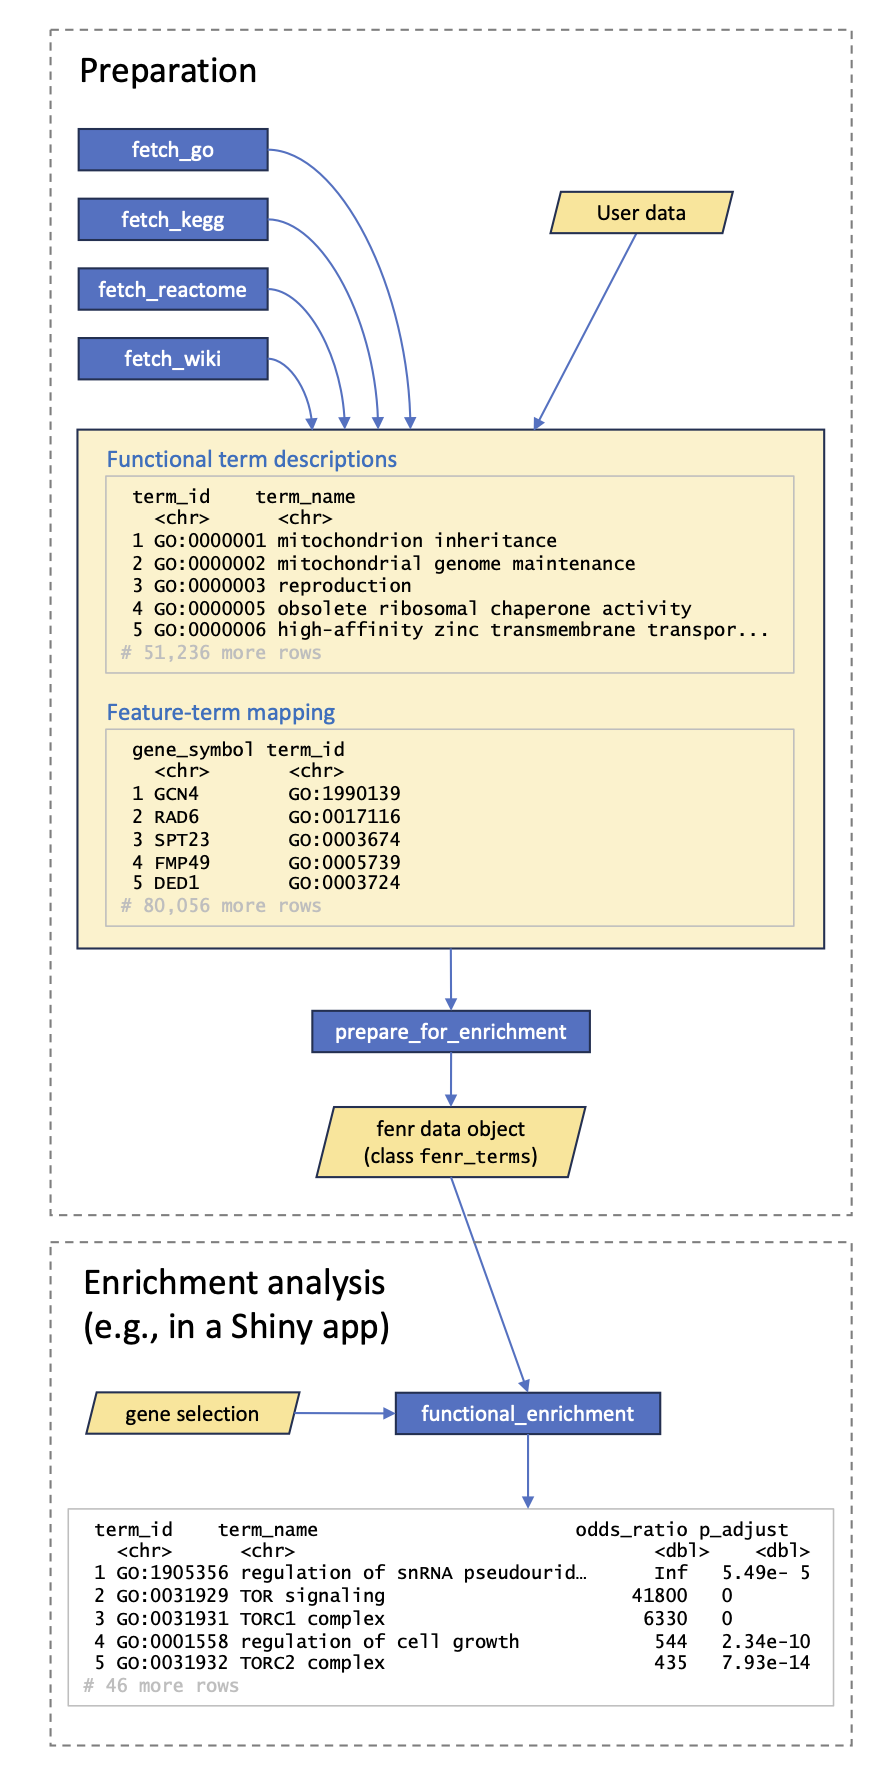
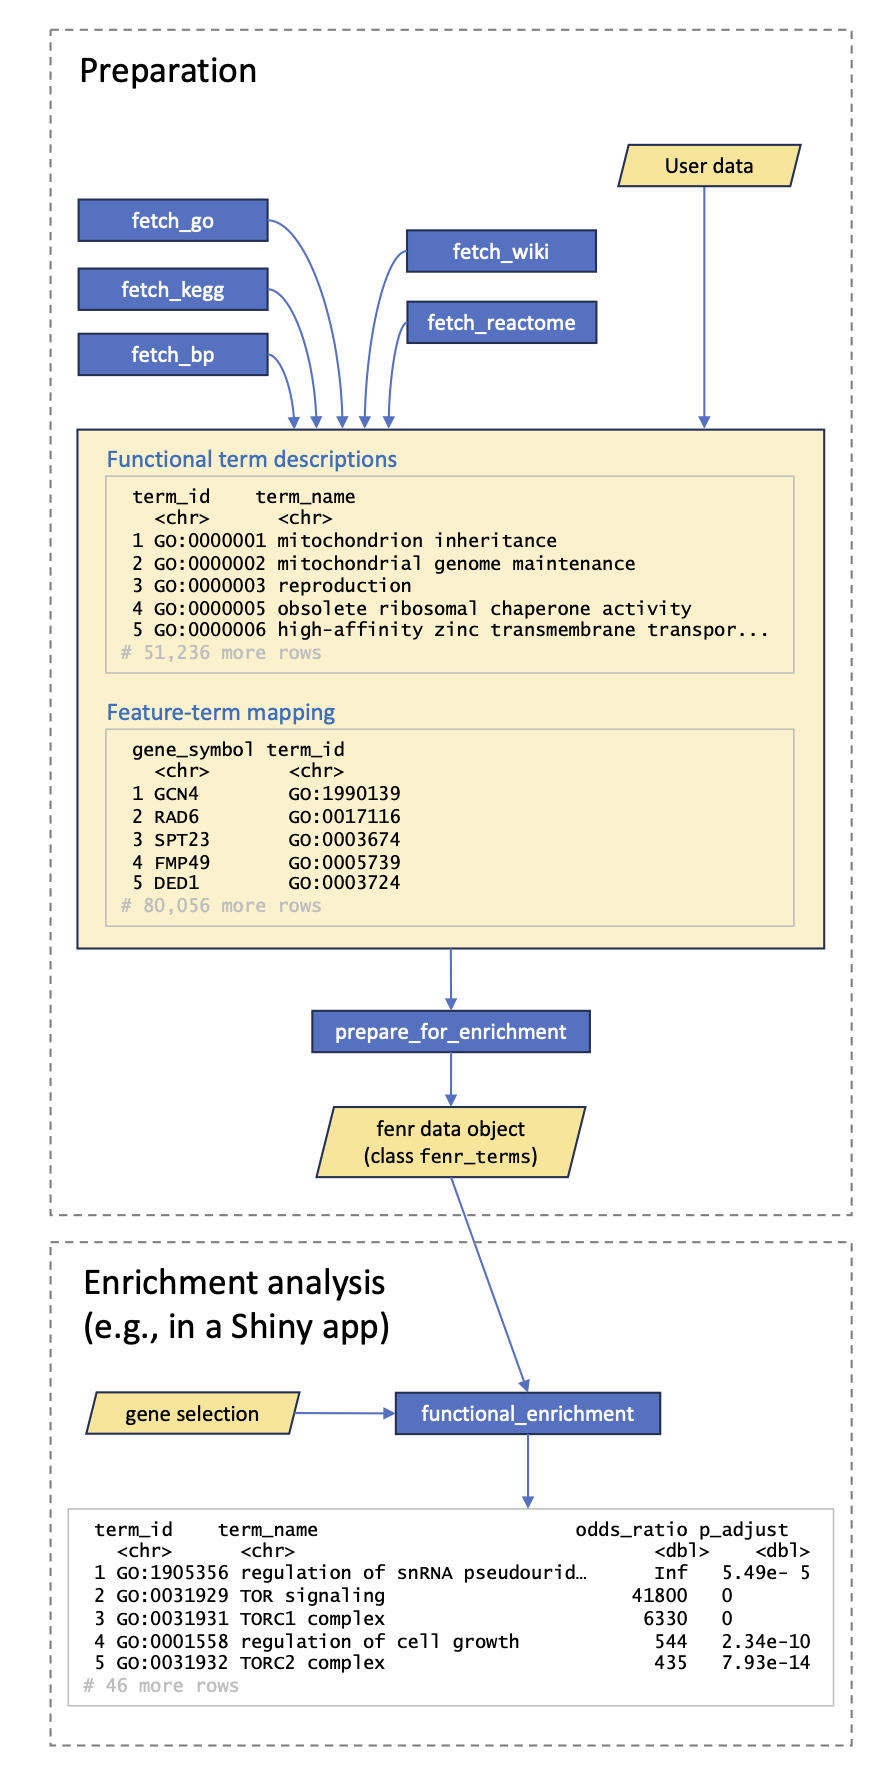
Reinstating Bioplanet with a graceful fail

Changed region(s): [[0.0915, 0.0621, 0.9153, 0.2486]]

diff --git a/NEWS.md b/NEWS.md
@@ -129,3 +129,8 @@
 
  - Bug fixes, examples need on_error = "warn"
 
+## Version 1.1.3
+
+ - Reinstated Bioplanet access, this time with graceful fail when the website is down.
+ - Minor code changes.
+ 
